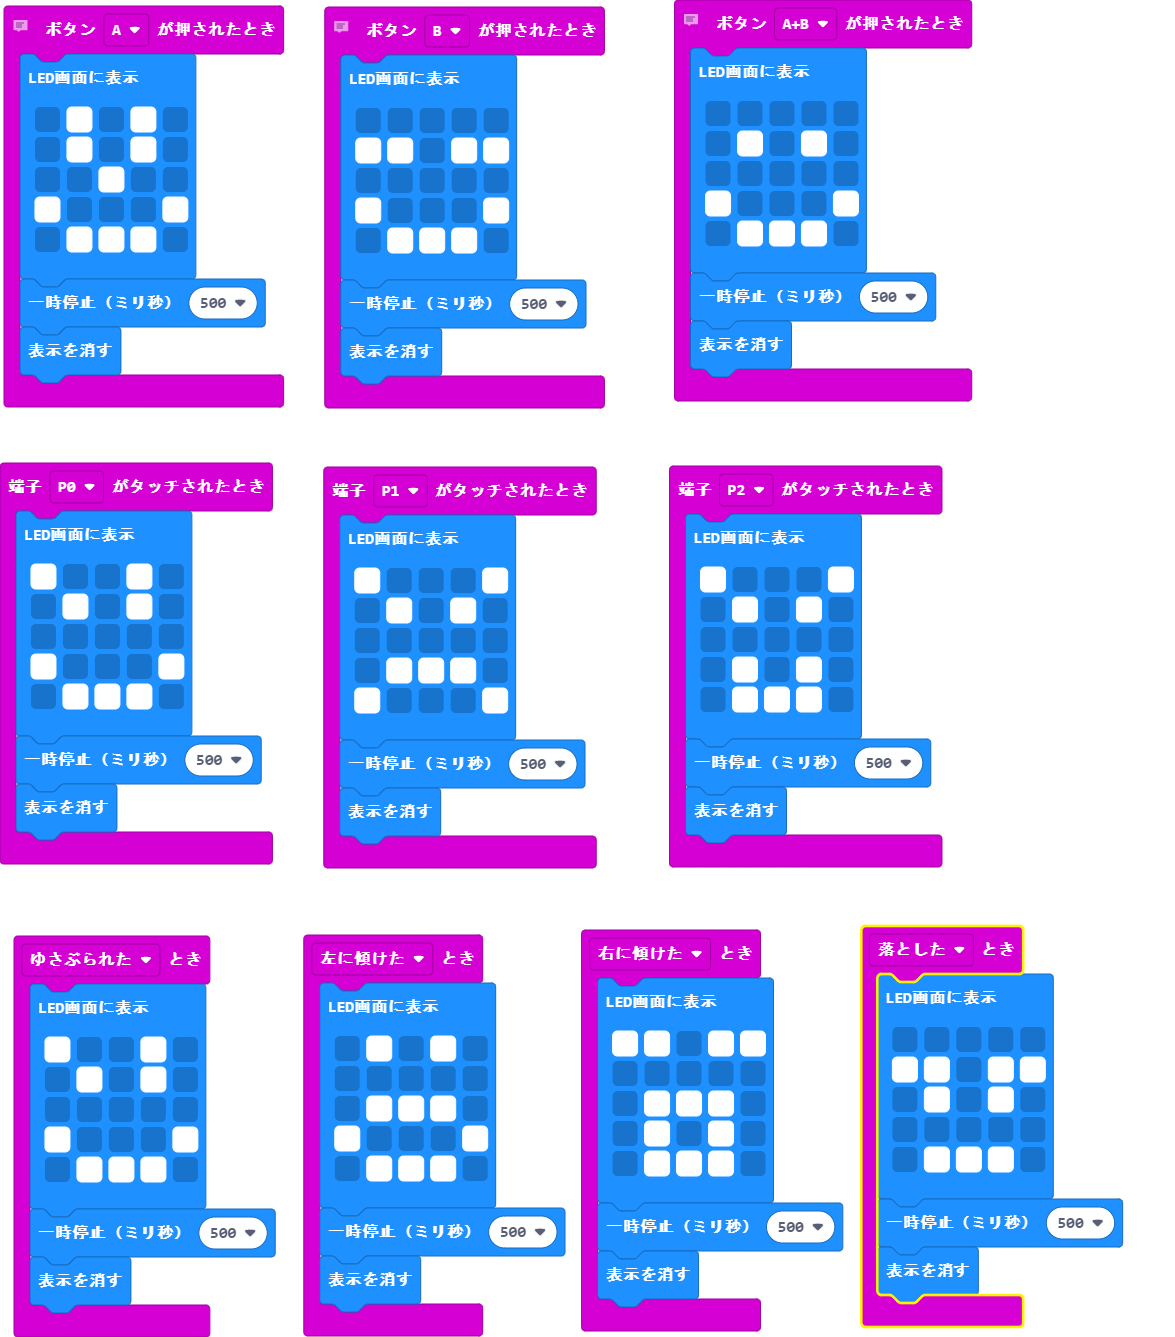
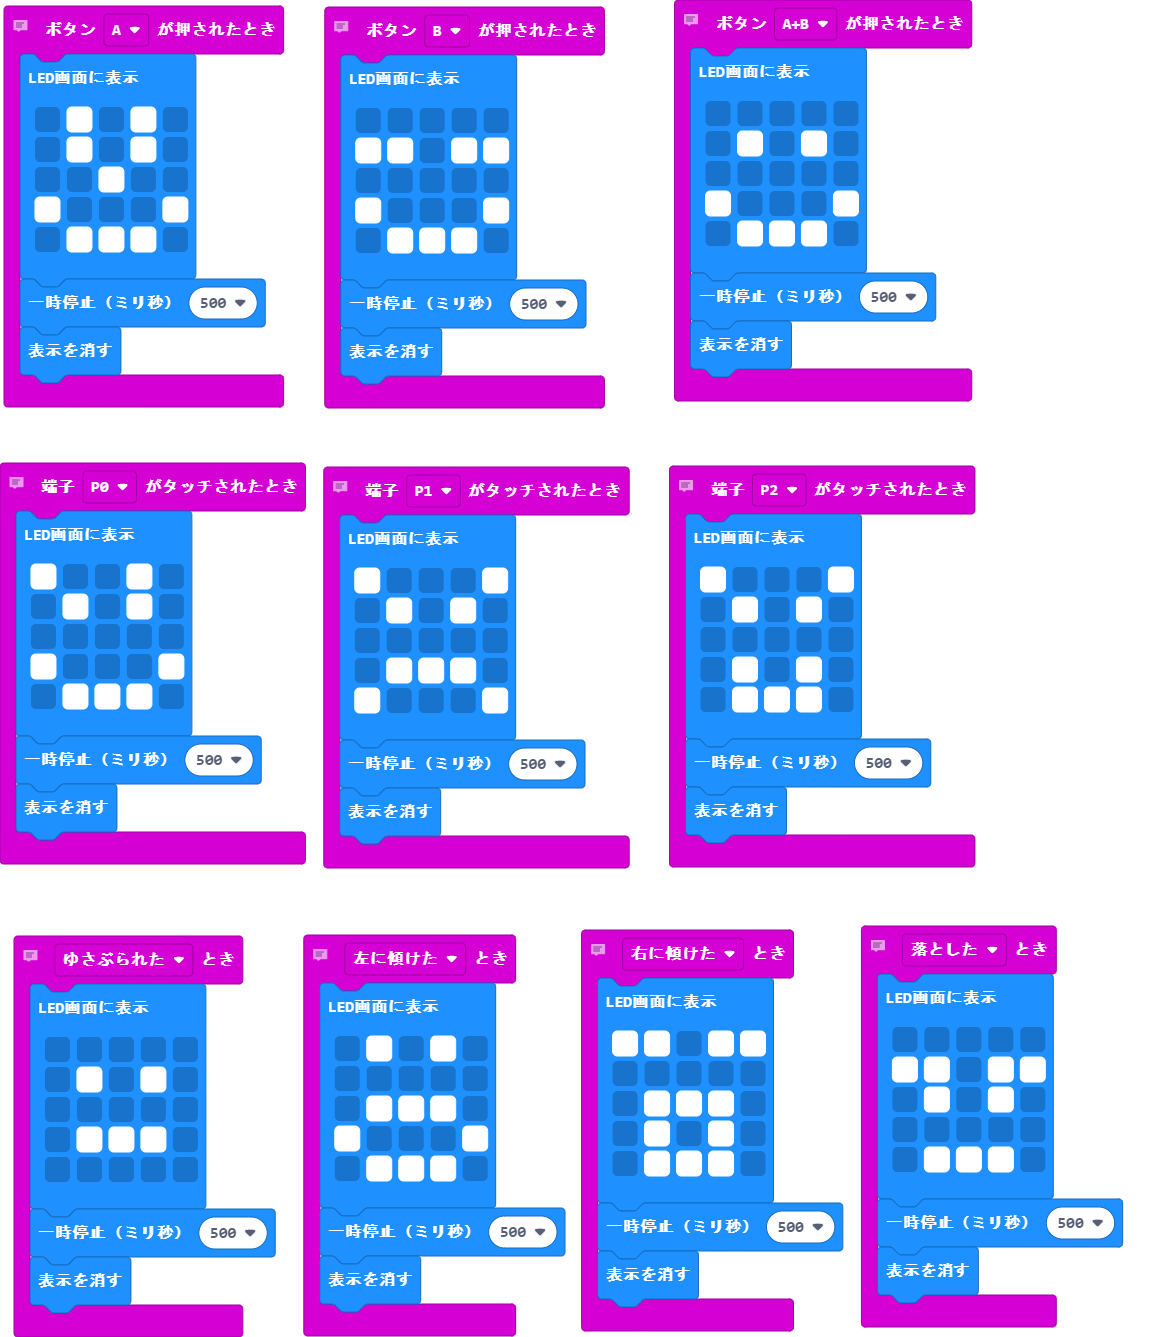
更新 main.blocks, main.ts

diff --git a/main.ts b/main.ts
@@ -1,3 +1,4 @@
+// P0でウィンク
 input.onPinPressed(TouchPin.P0, function () {
     basic.showLeds(`
         # . . # .
@@ -9,6 +10,7 @@ input.onPinPressed(TouchPin.P0, function () {
     basic.pause(500)
     basic.clearScreen()
 })
+// 右に傾けるとオーって感じの顔
 input.onGesture(Gesture.TiltRight, function () {
     basic.showLeds(`
         # # . # #
@@ -20,7 +22,7 @@ input.onGesture(Gesture.TiltRight, function () {
     basic.pause(500)
     basic.clearScreen()
 })
-// Bボタンを押したら悲しい顔
+// Aでニコリ
 input.onButtonPressed(Button.A, function () {
     basic.showLeds(`
         . # . # .
@@ -32,6 +34,7 @@ input.onButtonPressed(Button.A, function () {
     basic.pause(500)
     basic.clearScreen()
 })
+// 左に傾けるとポカーン顔
 input.onGesture(Gesture.TiltLeft, function () {
     basic.showLeds(`
         . # . # .
@@ -43,6 +46,7 @@ input.onGesture(Gesture.TiltLeft, function () {
     basic.pause(500)
     basic.clearScreen()
 })
+// P2で頬を膨らませる
 input.onPinPressed(TouchPin.P2, function () {
     basic.showLeds(`
         # . . . #
@@ -54,18 +58,19 @@ input.onPinPressed(TouchPin.P2, function () {
     basic.pause(500)
     basic.clearScreen()
 })
+// 揺れると無表情
 input.onGesture(Gesture.Shake, function () {
     basic.showLeds(`
-        # . . # .
+        . . . . .
         . # . # .
         . . . . .
-        # . . . #
         . # # # .
+        . . . . .
         `)
     basic.pause(500)
     basic.clearScreen()
 })
-// Bボタンを押したら悲しい顔
+// A＋Bで通常ニコリ
 input.onButtonPressed(Button.AB, function () {
     basic.showLeds(`
         . . . . .
@@ -77,7 +82,7 @@ input.onButtonPressed(Button.AB, function () {
     basic.pause(500)
     basic.clearScreen()
 })
-// Bボタンを押したら悲しい顔
+// Bでニヤリ
 input.onButtonPressed(Button.B, function () {
     basic.showLeds(`
         . . . . .
@@ -89,6 +94,7 @@ input.onButtonPressed(Button.B, function () {
     basic.pause(500)
     basic.clearScreen()
 })
+// P1でムっとした顔
 input.onPinPressed(TouchPin.P1, function () {
     basic.showLeds(`
         # . . . #
@@ -100,6 +106,7 @@ input.onPinPressed(TouchPin.P1, function () {
     basic.pause(500)
     basic.clearScreen()
 })
+// 落すとジト目
 input.onGesture(Gesture.FreeFall, function () {
     basic.showLeds(`
         . . . . .
